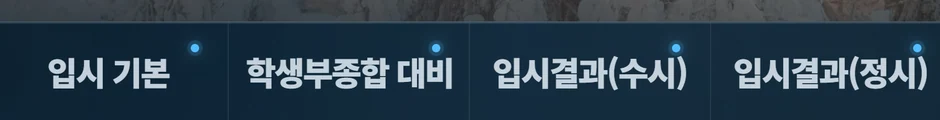
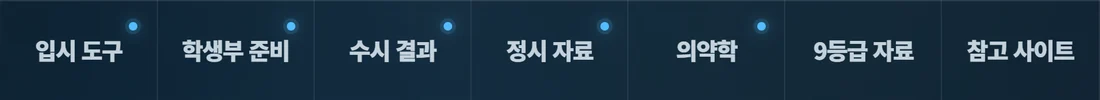
Simplify desktop navigation and add admissions reference sites

diff --git a/index.html b/index.html
@@ -30,7 +30,7 @@
   <meta name="twitter:title" content="진학 인사이트">
   <meta name="twitter:description" content="입시 정보와 진학 도구를 한곳에서 확인하세요.">
   <meta name="twitter:image" content="https://seiryu1318.github.io/Ergosphere_Ryan/og-preview-20260827-05.jpg">
-  <title>라이언의 대입 포털 ver.20261127 - 01</title>
+  <title>라이언의 대입 포털 ver.20261127 - 02</title>
   <script>
     const tabletViewKey = "ryan-portal-tablet-view";
     const manualViewKey = "ryan-portal-manual-view";
@@ -54,6 +54,7 @@
       if (ipad) document.querySelector('meta[name="theme-color"]').content = "#102939";
       document.documentElement.classList.toggle("tablet-device", tablet);
       document.documentElement.classList.toggle("ipad-device", ipad);
+      document.documentElement.classList.toggle("ipad-home-screen", ipad && navigator.standalone === true);
       document.documentElement.classList.toggle("mode-mobile-root", isInitialMobile);
       window.__RYAN_TABLET__ = tablet;
       window.__RYAN_INITIAL_MOBILE__ = isInitialMobile;
@@ -2756,7 +2757,7 @@
       position: relative;
       z-index: 2;
       display: grid;
-      grid-template-columns: repeat(6, minmax(0, 1fr));
+      grid-template-columns: repeat(7, minmax(0, 1fr));
       min-width: 0;
     }
     .category-trigger {
@@ -2868,7 +2869,7 @@
     }
     .category-columns {
       display: grid;
-      grid-template-columns: repeat(6, minmax(0, 1fr));
+      grid-template-columns: repeat(7, minmax(0, 1fr));
       gap: 0;
       width: var(--category-launcher-width);
       min-width: 0;
@@ -3346,10 +3347,10 @@
       .category-launcher {
         grid-column: 1 / -1;
         grid-row: 2;
-        grid-template-columns: repeat(3, minmax(0, 1fr));
+        grid-template-columns: repeat(4, minmax(0, 1fr));
       }
       .category-trigger { min-height: 42px; }
-      .category-columns { grid-template-columns: repeat(3, minmax(0, 1fr)); }
+      .category-columns { grid-template-columns: repeat(4, minmax(0, 1fr)); }
       .category-mega {
         max-height: calc(100svh - 150px);
         padding: 16px 0 18px;
@@ -3833,7 +3834,7 @@
       .portal-modal,
       .portal-modal-card { transition: none; }
     }
-    body.mode-pc .bottom-nav { grid-template-columns: var(--help-track) var(--hub-track) minmax(0,6fr) var(--roadmap-track); }
+    body.mode-pc .bottom-nav { grid-template-columns: var(--help-track) var(--hub-track) minmax(0,7fr) var(--roadmap-track); }
     body.mode-mobile .mobile-hero::before { content: none; }
     body.mode-mobile .mobile-hero h1 { text-shadow: 0 1px 3px #283a47, 0 2px 8px #24374780; }
     body.mode-mobile .mobile-experience {
@@ -3964,7 +3965,7 @@
     body.mode-pc .bottom-nav .help-launch { padding-inline: 3px; }
     body.mode-mobile .mobile-help-launch .help-label { justify-content: flex-start; font-size: clamp(20px, 5vw, 24px); }
     .help-launch, .category-trigger { text-rendering: inherit; }
-    body.mode-pc .bottom-nav { --dock-type: clamp(18px, 1.43vw, 28px); }
+    body.mode-pc .bottom-nav { --dock-type: clamp(17px, 1.33vw, 26px); }
     body.mode-pc .bottom-nav :is(.category-trigger, .help-label, .nav-fixed .nav-label, .scroll-control .scroll-label) {
       font-size: var(--dock-type);
       line-height: 1.2;
@@ -3975,27 +3976,45 @@
     body.mode-pc .bottom-nav #desktopHelpLaunch .help-label {
       font-size: calc(var(--dock-type) + 2px); font-weight: 850;
     }
+    @media (min-width:1081px) {
+      .category-columns {
+        width: min(calc(100% - 24px), 1680px);
+        margin-inline: auto;
+      }
+    }
     @media (min-width:1321px) {
-      body.mode-pc .bottom-nav { --help-track: minmax(144px, .92fr); }
+      body.mode-pc .bottom-nav {
+        --help-track: minmax(144px, .92fr);
+        --hub-track: clamp(178px, 13vw, 248px);
+      }
     }
     @media (min-width:761px) and (max-width:1320px) {
       body.mode-pc .bottom-nav {
-        --dock-type: clamp(16px, 1.8vw, 21px);
+        --dock-type: clamp(15px, 1.65vw, 20px);
         grid-template-columns: 1fr 1.5fr 1fr;
         grid-template-areas: "help hub history" "groups groups groups";
       }
       body.mode-pc .bottom-nav #desktopHelpLaunch { grid-area: help; }
       body.mode-pc .bottom-nav [data-qa="ai-hub"] { grid-area: hub; }
-      body.mode-pc .bottom-nav .category-launcher { grid-area: groups; }
+      body.mode-pc .bottom-nav .category-launcher {
+        grid-area: groups;
+        grid-template-columns: repeat(7, minmax(0, 1fr));
+      }
       body.mode-pc .bottom-nav #scrollControl { grid-area: history; }
       body.mode-pc .bottom-nav :is(.nav-fixed,.category-trigger,.scroll-control) { min-height: 46px; }
       .category-trigger.has-work-change::before { top: 5px; }
     }
     @media (max-width:760px) {
-      body.mode-pc .bottom-nav { --dock-type: clamp(12px, 3.4vw, 19px); }
-      body.mode-pc .bottom-nav .category-trigger { font-size: clamp(14px, 3.7vw, 20px); }
+      body.mode-pc .bottom-nav { --dock-type: clamp(12px, 3.2vw, 18px); }
+      body.mode-pc .bottom-nav .category-trigger { font-size: clamp(13px, 3.3vw, 18px); }
+      body.mode-pc .bottom-nav .category-trigger:last-child { grid-column: span 2; }
       .category-trigger.has-work-change::before { top: 4px; }
     }
+    body.mode-pc .bottom-nav .category-reference-link {
+      justify-content: space-between;
+      gap: 6px;
+    }
+    .category-reference-link > span[aria-hidden] { color: #abd4e7; }
     .tablet-device body.mode-pc .bottom-nav {
       padding-bottom: env(safe-area-inset-bottom, 0px);
     }
@@ -4045,6 +4064,7 @@
       --ipad-header-color: #102939;
       background-color: var(--ipad-header-color);
     }
+    html.ipad-home-screen { --ipad-edge-space: clamp(24px, 4svh, 36px); }
     @media (display-mode: standalone) {
       html.ipad-device { --ipad-edge-space: clamp(24px, 4svh, 36px); }
     }
@@ -4188,7 +4208,7 @@
[1 lines of base64/hex data omitted]
         <span class="brand-copy">
           <strong>라이언의 대입 포털</strong>
-          <span>ver.20261127 - 01</span>
+          <span>ver.20261127 - 02</span>
         </span>
       </a>
       <div class="header-actions">
@@ -4287,19 +4307,20 @@
           <span class="password-overlay" id="desktopHubPasswordHint" role="tooltip" aria-hidden="true" data-qa="password-overlay">별도 비밀번호 필요</span>
         </a>
         <div class="category-launcher" aria-label="카테고리 펼치기">
-          <button class="category-trigger" type="button" data-category="common" data-qa="desktop-category-trigger" aria-expanded="false" aria-controls="desktopCategoryMega">입시 기본</button>
-          <button class="category-trigger" type="button" data-category="documents" data-qa="desktop-category-trigger" aria-expanded="false" aria-controls="desktopCategoryMega">학생부종합 대비</button>
-          <button class="category-trigger" type="button" data-category="early" data-qa="desktop-category-trigger" aria-expanded="false" aria-controls="desktopCategoryMega">입시결과(수시)</button>
-          <button class="category-trigger" type="button" data-category="regular" data-qa="desktop-category-trigger" aria-expanded="false" aria-controls="desktopCategoryMega">입시결과(정시)</button>
-          <button class="category-trigger" type="button" data-category="medical" data-qa="desktop-category-trigger" aria-expanded="false" aria-controls="desktopCategoryMega">의약학계열</button>
-          <button class="category-trigger" type="button" data-category="legacy" data-qa="desktop-category-trigger" aria-expanded="false" aria-controls="desktopCategoryMega">9등급제 자료</button>
+          <button class="category-trigger" type="button" data-category="common" data-qa="desktop-category-trigger" aria-expanded="false" aria-controls="desktopCategoryMega">입시 도구</button>
+          <button class="category-trigger" type="button" data-category="documents" data-qa="desktop-category-trigger" aria-expanded="false" aria-controls="desktopCategoryMega">학생부 준비</button>
+          <button class="category-trigger" type="button" data-category="early" data-qa="desktop-category-trigger" aria-expanded="false" aria-controls="desktopCategoryMega">수시 결과</button>
+          <button class="category-trigger" type="button" data-category="regular" data-qa="desktop-category-trigger" aria-expanded="false" aria-controls="desktopCategoryMega">정시 자료</button>
+          <button class="category-trigger" type="button" data-category="medical" data-qa="desktop-category-trigger" aria-expanded="false" aria-controls="desktopCategoryMega">의약학</button>
+          <button class="category-trigger" type="button" data-category="legacy" data-qa="desktop-category-trigger" aria-expanded="false" aria-controls="desktopCategoryMega">9등급 자료</button>
+          <button class="category-trigger" type="button" data-category="references" data-qa="desktop-category-trigger" aria-expanded="false" aria-controls="desktopCategoryMega">참고 사이트</button>
         </div>
         <section class="category-mega" id="desktopCategoryMega" aria-hidden="true" inert data-qa="desktop-category-popover">
           <div class="category-mega-grid">
             <div class="category-mega-spacer" aria-hidden="true"></div>
             <div class="category-columns">
             <section class="category-column" data-category-column="common">
-              <h2>입시 기본</h2>
+              <h2>입시 도구</h2>
               <ul>
                 <li><a class="category-project-link" href="https://seiryu1318.github.io/competition-rate_Ryan/" target="_blank" rel="noopener noreferrer" data-project="competition" data-qa="desktop-project-link">경쟁률 검색기</a></li>
                 <li><a class="category-project-link" href="https://seiryu1318.github.io/Guide_Ryan/" target="_blank" rel="noopener noreferrer" data-project="guide" data-qa="desktop-project-link">가이드북 통합 검색기</a></li>
@@ -4307,7 +4328,7 @@
               </ul>
             </section>
             <section class="category-column" data-category-column="documents">
-              <h2>학생부종합 대비</h2>
+              <h2>학생부 준비</h2>
               <ul>
                 <li><a class="category-project-link requires-password password-overlay-host" href="https://seiryu1318.github.io/doc_ev_Ryan/" target="_blank" rel="noopener noreferrer" data-project="doc-ev" data-qa="desktop-project-link" aria-describedby="desktopDocPasswordHint"><span class="password-primary">라이언의 모집단위 추천</span><span class="password-overlay" id="desktopDocPasswordHint" role="tooltip" aria-hidden="true" data-qa="password-overlay">별도 비밀번호 필요</span></a></li>
                 <li><a class="category-project-link" href="https://seiryu1318.github.io/Curriculum_Ryan/" target="_blank" rel="noopener noreferrer" data-project="curriculum" data-qa="desktop-project-link">2022 선택과목 검색기</a></li>
@@ -4315,29 +4336,39 @@
               </ul>
             </section>
             <section class="category-column" data-category-column="early">
-              <h2>입시결과(수시)</h2>
+              <h2>수시 결과</h2>
               <ul>
                 <li><a class="category-project-link" href="https://seiryu1318.github.io/5admission_Ryan/" target="_blank" rel="noopener noreferrer" data-project="admission-5" data-qa="desktop-project-link">수시모집 입시결과(5등급)</a></li>
               </ul>
             </section>
             <section class="category-column" data-category-column="regular">
-              <h2>입시결과(정시)</h2>
+              <h2>정시 자료</h2>
               <ul>
                 <li><a class="category-project-link" href="https://seiryu1318.github.io/Regular_Ryan/" target="_blank" rel="noopener noreferrer" data-project="regular" data-qa="desktop-project-link">정시모집 입결 분석기(2023-2026)</a></li>
                 <li><a class="category-project-link" href="https://seiryu1318.github.io/Regular_A_Ryan/" target="_blank" rel="noopener noreferrer" data-project="regular-a" data-qa="desktop-project-link">2027 정시모집 변화 분석</a></li>
               </ul>
             </section>
             <section class="category-column" data-category-column="medical">
-              <h2>의약학계열</h2>
+              <h2>의약학</h2>
               <ul>
                 <li><a class="category-project-link" href="https://seiryu1318.github.io/5medical_Ryan/" target="_blank" rel="noopener noreferrer" data-project="medical-5" data-qa="desktop-project-link">라이언의 의약학 문단속(5등급)</a></li>
               </ul>
             </section>
             <section class="category-column" data-category-column="legacy">
-              <h2>9등급제 자료</h2>
+              <h2>9등급 자료</h2>
               <ul>
                 <li><a class="category-project-link" href="https://seiryu1318.github.io/admission_Ryan/" target="_blank" rel="noopener noreferrer" data-project="admission-9" data-qa="desktop-project-link">수시모집 입시결과(9등급)</a></li>
                 <li><a class="category-project-link" href="https://seiryu1318.github.io/medical_Ryan/" target="_blank" rel="noopener noreferrer" data-project="medical-9" data-qa="desktop-project-link">라이언의 의약학 문단속(9등급)</a></li>
+              </ul>
+            </section>
+            <section class="category-column" data-category-column="references">
+              <h2>참고 사이트</h2>
+              <ul>
+                <li><a class="category-project-link category-reference-link" href="https://www.adiga.kr/man/inf/mainView.do" target="_blank" rel="noopener noreferrer">대학어디가<span aria-hidden="true">↗</span></a></li>
+                <li><a class="category-project-link category-reference-link" href="https://snuarori.snu.ac.kr/" target="_blank" rel="noopener noreferrer">서울대학교 아로리<span aria-hidden="true">↗</span></a></li>
+                <li><a class="category-project-link category-reference-link" href="https://ipsi.sen.go.kr/ssenjh/main/main.do" target="_blank" rel="noopener noreferrer">쎈진학 나침판<span aria-hidden="true">↗</span></a></li>
+                <li><a class="category-project-link category-reference-link" href="https://www.work.go.kr/consltJobCarpa/srch/schdpt/schdptSrch.do" target="_blank" rel="noopener noreferrer">워크넷 학과정보<span aria-hidden="true">↗</span></a></li>
+                <li><a class="category-project-link category-reference-link" href="https://www.career.go.kr/cloud/w/major/uList" target="_blank" rel="noopener noreferrer">커리어넷 학과정보<span aria-hidden="true">↗</span></a></li>
               </ul>
             </section>
             </div>
@@ -4521,11 +4552,11 @@
           <ol class="guide-steps">
             <li>
               <p>화면 아래에서 <strong>원하는 분류를 선택하세요.</strong> 마우스를 올리거나 태블릿에서 분류를 누르면 자료 목록이 펼쳐집니다. 키보드로는 Tab을 눌러 이동하세요.</p>
-              <img class="guide-shot" src="./assets/step-find-pc-1.webp?v=20261118-08" width="940" height="120" loading="lazy" decoding="async" alt="PC 화면 아래에 나란히 놓인 입시 기본, 학생부종합 대비, 입시결과 메뉴">
+              <img class="guide-shot" src="./assets/step-find-pc-1.webp?v=20261127-02" width="1100" height="100" loading="lazy" decoding="async" alt="PC 화면 아래에 나란히 놓인 입시 도구, 학생부 준비, 참고 사이트 등 일곱 메뉴">
             </li>
             <li>
               <p>펼쳐진 메뉴에서 <strong>자료 이름을 클릭</strong>하면 새 탭에서 열립니다.</p>
-              <img class="guide-shot" src="./assets/step-find-pc-2.webp?v=20261118-08" width="540" height="331" loading="lazy" decoding="async" alt="입시 기본 메뉴에서 경쟁률 검색기를 가리킨 화면">
+              <img class="guide-shot" src="./assets/step-find-pc-2.webp?v=20261127-02" width="540" height="364" loading="lazy" decoding="async" alt="입시 도구 메뉴에서 경쟁률 검색기를 가리킨 화면">
             </li>
             <li>
               <p>오른쪽 아래 <strong>업데이트 내역</strong>을 누르면 어떤 자료가 언제 바뀌었는지 볼 수 있습니다.</p>
@@ -4638,7 +4669,7 @@
 
       if ("serviceWorker" in navigator && supportsPwaInstall) {
         window.addEventListener("load", () => {
-          navigator.serviceWorker.register("./service-worker.js?v=20261127-01", {
+          navigator.serviceWorker.register("./service-worker.js?v=20261127-02", {
             scope: "./",
             updateViaCache: "none"
           }).then((registration) => registration.update()).catch(() => {});
@@ -5448,6 +5479,6 @@
       syncScrollControl();
     })();
   </script>
-  <script src="./project-dots.js?v=20261127-01" defer></script>
+  <script src="./project-dots.js?v=20261127-02" defer></script>
 </body>
 </html>

diff --git a/service-worker.js b/service-worker.js
@@ -1,10 +1,10 @@
 const CACHE_PREFIX = "ryan-admission-portal-";
-const CACHE_NAME = "ryan-admission-portal-20261127-01";
+const CACHE_NAME = "ryan-admission-portal-20261127-02";
 const SCOPE_URL = new URL(self.registration.scope);
 const INDEX_URL = new URL("./index.html", SCOPE_URL);
 const APP_SHELL = [
   "./index.html",
-  "./project-dots.js?v=20261127-01",
+  "./project-dots.js?v=20261127-02",
   "./project-updates.json",
   "./manifest.webmanifest",
   "./og-preview-20260827-05.jpg",
